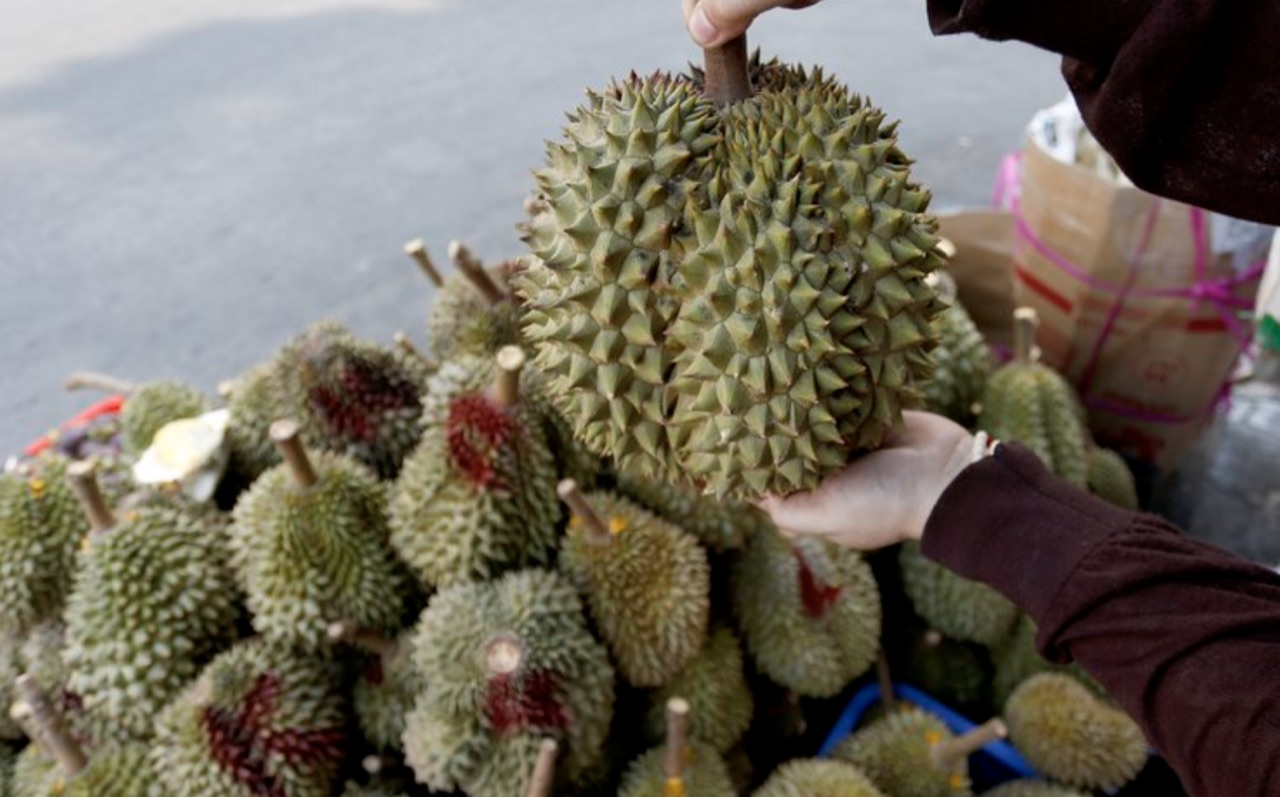
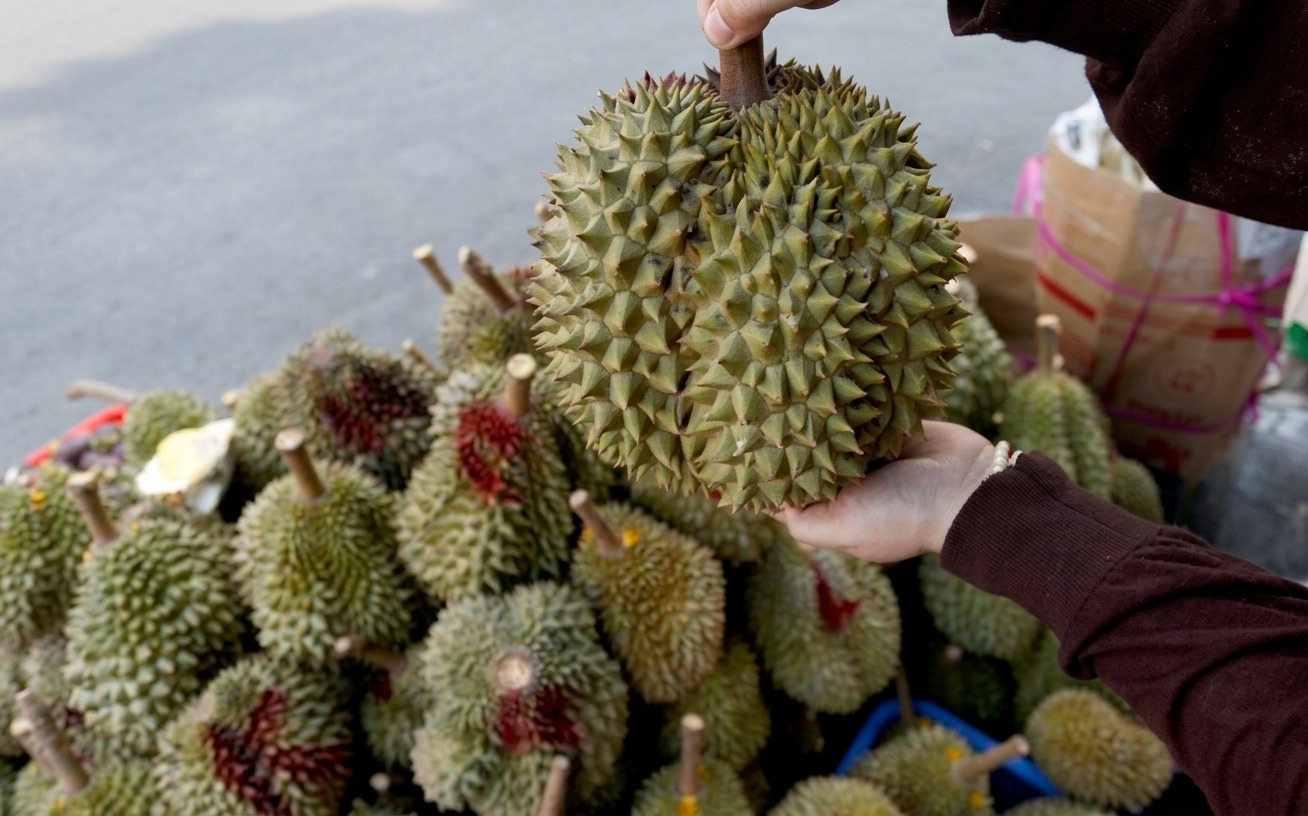
content: sharper photographs on entries 01 and 11 [AI-assisted]

diff --git a/content/photos.js b/content/photos.js
@@ -57,15 +57,15 @@ const photos = {
   },
   "/opened-on-leaf.jpg": {
     src: "/opened-on-leaf.jpg",
-    width: 870,
-    height: 614,
+    width: 1224,
+    height: 864,
     alt: "An opened durian on a banana leaf, its stem still attached, one lobe of flesh lifted out in front",
     caption: "An opened fruit on a banana leaf, the stem still on. Photograph by the curator's family.",
   },
   "/fruit-stall.jpg": {
     src: "/fruit-stall.jpg",
-    width: 1280,
-    height: 797,
+    width: 1308,
+    height: 816,
     alt: "A hand lifting a durian by its stem from a heaped stall, the cut stems of the others marked red",
     caption: "A fruit lifted by its stem from a stall pile. Photograph by the curator's family.",
   },
